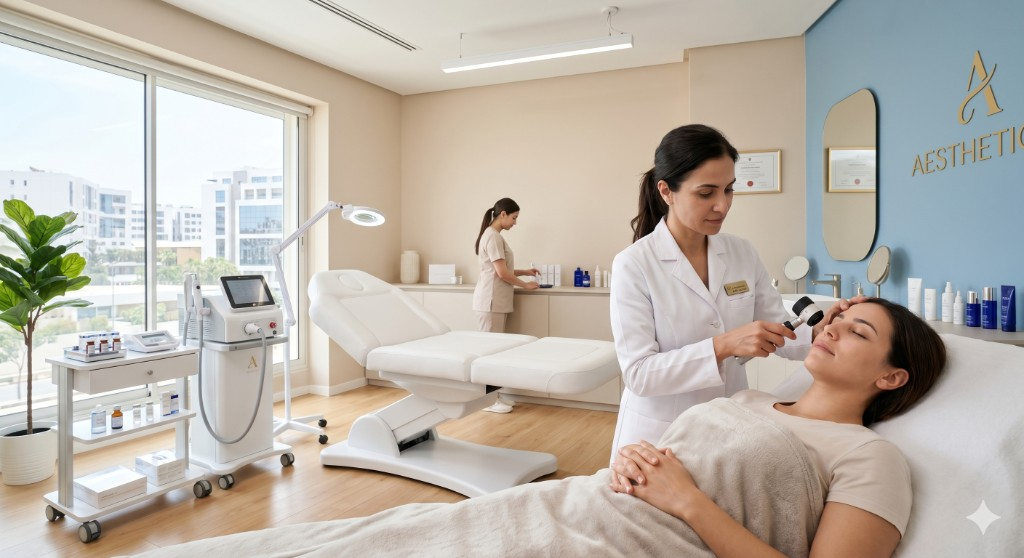
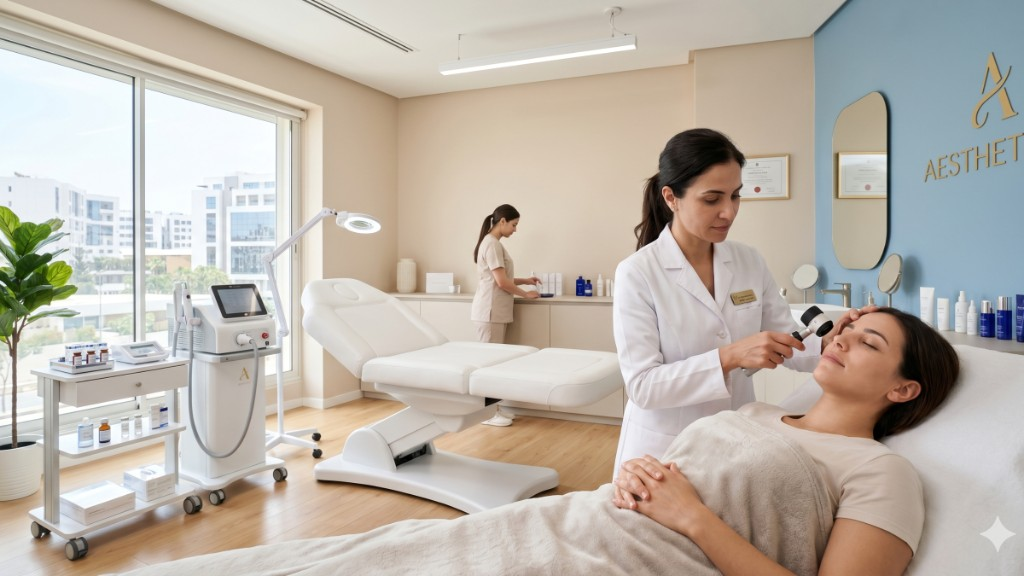
Remplacer photo hero par version 2400x1350 haute qualite.

diff --git a/src/app/layout.tsx b/src/app/layout.tsx
@@ -39,7 +39,7 @@ export default function RootLayout({
       style={{ colorScheme: "light only" }}
     >
       <head>
-        <link rel="preload" as="image" href="/images/cabinet-hero.png?v=6" fetchPriority="high" />
+        <link rel="preload" as="image" href="/images/cabinet-hero.png?v=7" fetchPriority="high" />
         <link rel="preload" as="image" href="/logo.png" />
       </head>
       <body className="min-h-screen bg-white font-sans text-slate-blue">{children}</body>

diff --git a/src/components/HeroBackground.tsx b/src/components/HeroBackground.tsx
@@ -11,7 +11,7 @@ export default function HeroBackground() {
 
       <div className="hero-bg-image-wrap absolute inset-0 z-[1]">
         <img
-          src="/images/cabinet-hero.png?v=6"
+          src="/images/cabinet-hero.png?v=7"
           alt=""
           decoding="async"
           fetchPriority="high"